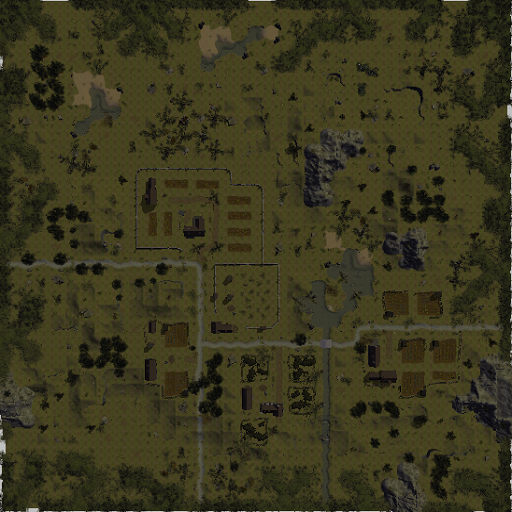
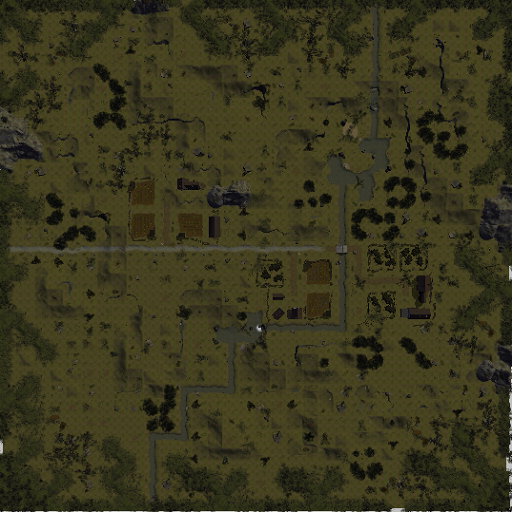
ver210214

Changed region(s): [[0.0, 0.0, 1.0, 1.0], [0.1562, 0.6562, 0.25, 0.75]]

diff --git a/square/scroll.js b/square/scroll.js
@@ -1,6 +1,6 @@
 var map = {
     cols: 21,
-    rows: 10,
+    rows: 11,
     tsize: 512,
     csize: 256,
     layers: [[
@@ -10,11 +10,12 @@ var map = {
         '0map',        '0map',     '0map',            '0map',            '0map',            '0map',            '0map',           '0map',            '0map',           '0map',            '0map',         '0map',          '0map',          '0map',      '0map',        '0map',        '0map',        'TorArcanaFsw','TorArcanaFs', 'TorArcanaFse','0map',   
         '0map',        '0map',     '0map',            '0map',            '0map',            '0map',            '0map',           '0map',            '0map',           '0map',            '0map',         'GrannoxFw',     'GrannoxFe',     'Lhestyn',   'FreelmanseFw','FreelmanseFe','0map',        'VarythPlainW','VarythPlainC','0map',        '0map',
         '0map',        '0map',     'CastleTethyr',    '0map',            '0map',            '0map',            '0map',           'Hostim',          '0map',           '0map',            '0map',         '0map',          'LhestynFsw',    'LhestynFs', 'LhestynFse',  'RvrShrHillN', 'RvrShrHillNE','VarythHillNW','0map',        '0map',        '0map', 
-        '0map',        '0map',     'CastleTethyrS',   '0map',            '0map',            '0map',            '0map',           'HostimRD',            '0map',           '0map',            '0map',         'QonsirFw',      'QonsirFe',      'LhestynRd', 'RvrShrHillW', 'RvrShrHill',  'StOstus',     'VarythHillSW','0map',        '0map',        '0map', 
+        '0map',        '0map',     'CastleTethyrS',   '0map',            '0map',            '0map',            '0map',           'HostimRD',        '0map',           '0map',            '0map',         'QonsirFw',      'QonsirFe',      'LhestynRd', 'RvrShrHillW', 'RvrShrHill',  'StOstus',     'VarythHillSW','0map',        '0map',        '0map', 
         'SaharkhanCRS','Saharkhan','Barshyr_IthalRd1','Barshyr_IthalRd2','Barshyr_IthalRd3','Barshyr_IthalRd4','Ithmon_WCatFrm1','Ithmon_WCatFrm2', 'Ithmon_LorCrsRd','Ithmon_IthRd1',   'Ithmon_IthRd2','RvrShr_IthalRd','DarroFarmNW',   'DarroFarmN','DarroFarmNE', 'RvrShrHillS', 'RvrShrHillSE','0map',        '0map',        '0map',        '0map', 
         '0map',        '0map',     '0map',            '0map',            '0map',            '0map',            '0map',           'Ithmon_LorFarmNW','Ithmon_LorFarmN','Ithmon_LorFarmNE','0map',         'RvrShr_IthFrmW','RvrShr_IthFrmE','Darromar',  '0map',        '0map',        '0map',        '0map',        '0map',        '0map',        '0map', 
         '0map',        '0map',     '0map',            '0map',            '0map',            '0map',            '0map',           'Ithmon_LorFarmW', 'Loranse',        'Ithmon_LorFarmE', '0map',         '0map',          '0map',          'ClovisFn',  '0map',        '0map',        '0map',        '0map',        '0map',        '0map',        '0map', 
-        '0map',        '0map',     '0map',            '0map',            '0map',            '0map',            '0map',           '0map',            '0map',           '0map',            '0map',         '0map',          '0map',          '0map',      '0map',        '0map',        '0map',        '0map',        '0map',        '0map',        '0map'
+        '0map',        '0map',     '0map',            '0map',            '0map',            '0map',            '0map',           '0map',            '0map',           '0map',            '0map',         '0map',          '0map',          'ClovisFs',  '0map',        '0map',        '0map',        '0map',        '0map',        '0map',        '0map',
+        '0map',        '0map',     '0map',            '0map',            '0map',            '0map',            '0map',           '0map',            '0map',           '0map',            '0map',         '0map',          '0map',          '0map',      '0map',        '0map',        '0map',        '0map',        '0map',        '0map',        '0map'        
     ], [
       //                  10                  20  
       //1 2 3 4 5 6 7 8 9   1 2 3 4 5 6 7 8 9   1
@@ -27,6 +28,7 @@ var map = {
         0,0,0,0,0,0,0,0,0,0,0,0,0,0,0,0,0,0,0,0,0,      
         0,0,0,0,0,0,0,0,0,0,0,0,0,0,0,0,0,0,0,0,0,      
         0,0,0,0,0,0,0,0,0,0,0,0,0,0,0,0,0,0,0,0,0,      
+        0,0,0,0,0,0,0,0,0,0,0,0,0,0,0,0,0,0,0,0,0,              
         0,0,0,0,0,0,0,0,0,0,0,0,0,0,0,0,0,0,0,0,0
     ]],
     getTile: function (layer, col, row) {

diff --git a/square/no-scroll.js b/square/no-scroll.js
@@ -1,6 +1,6 @@
 var map = {
     cols: 21,
-    rows: 10,
+    rows: 11,
     tsize: 512,
     csize: 100,
     tiles: [
@@ -14,7 +14,8 @@ var map = {
         'SaharkhanCRS','Saharkhan','Barshyr_IthalRd1','Barshyr_IthalRd2','Barshyr_IthalRd3','Barshyr_IthalRd4','Ithmon_WCatFrm1','Ithmon_WCatFrm2', 'Ithmon_LorCrsRd','Ithmon_IthRd1',   'Ithmon_IthRd2','RvrShr_IthalRd','DarroFarmNW',   'DarroFarmN','DarroFarmNE', 'RvrShrHillS', 'RvrShrHillSE','0map',        '0map',        '0map',        '0map', 
         '0map',        '0map',     '0map',            '0map',            '0map',            '0map',            '0map',           'Ithmon_LorFarmNW','Ithmon_LorFarmN','Ithmon_LorFarmNE','0map',         'RvrShr_IthFrmW','RvrShr_IthFrmE','Darromar',  '0map',        '0map',        '0map',        '0map',        '0map',        '0map',        '0map', 
         '0map',        '0map',     '0map',            '0map',            '0map',            '0map',            '0map',           'Ithmon_LorFarmW', 'Loranse',        'Ithmon_LorFarmE', '0map',         '0map',          '0map',          'ClovisFn',  '0map',        '0map',        '0map',        '0map',        '0map',        '0map',        '0map', 
-        '0map',        '0map',     '0map',            '0map',            '0map',            '0map',            '0map',           '0map',            '0map',           '0map',            '0map',         '0map',          '0map',          '0map',      '0map',        '0map',        '0map',        '0map',        '0map',        '0map',        '0map'
+        '0map',        '0map',     '0map',            '0map',            '0map',            '0map',            '0map',           '0map',            '0map',           '0map',            '0map',         '0map',          '0map',          'ClovisFs',  '0map',        '0map',        '0map',        '0map',        '0map',        '0map',        '0map',
+        '0map',        '0map',     '0map',            '0map',            '0map',            '0map',            '0map',           '0map',            '0map',           '0map',            '0map',         '0map',          '0map',          '0map',      '0map',        '0map',        '0map',        '0map',        '0map',        '0map',        '0map'        
     ],
     getTile: function (col, row) {
         return this.tiles[row * map.cols + col];

diff --git a/square/no-scroll.html b/square/no-scroll.html
@@ -17,7 +17,7 @@
 
 <div class="main-wrapper">
     <div id='d1' style="position:relative; top:0px; left:-256px; z-index:1"> 
-        <canvas id="demo" width="2100" height="1000"></canvas>
+        <canvas id="demo" width="2100" height="1100"></canvas>
     </div>
 
     <footer class="main-footer">
